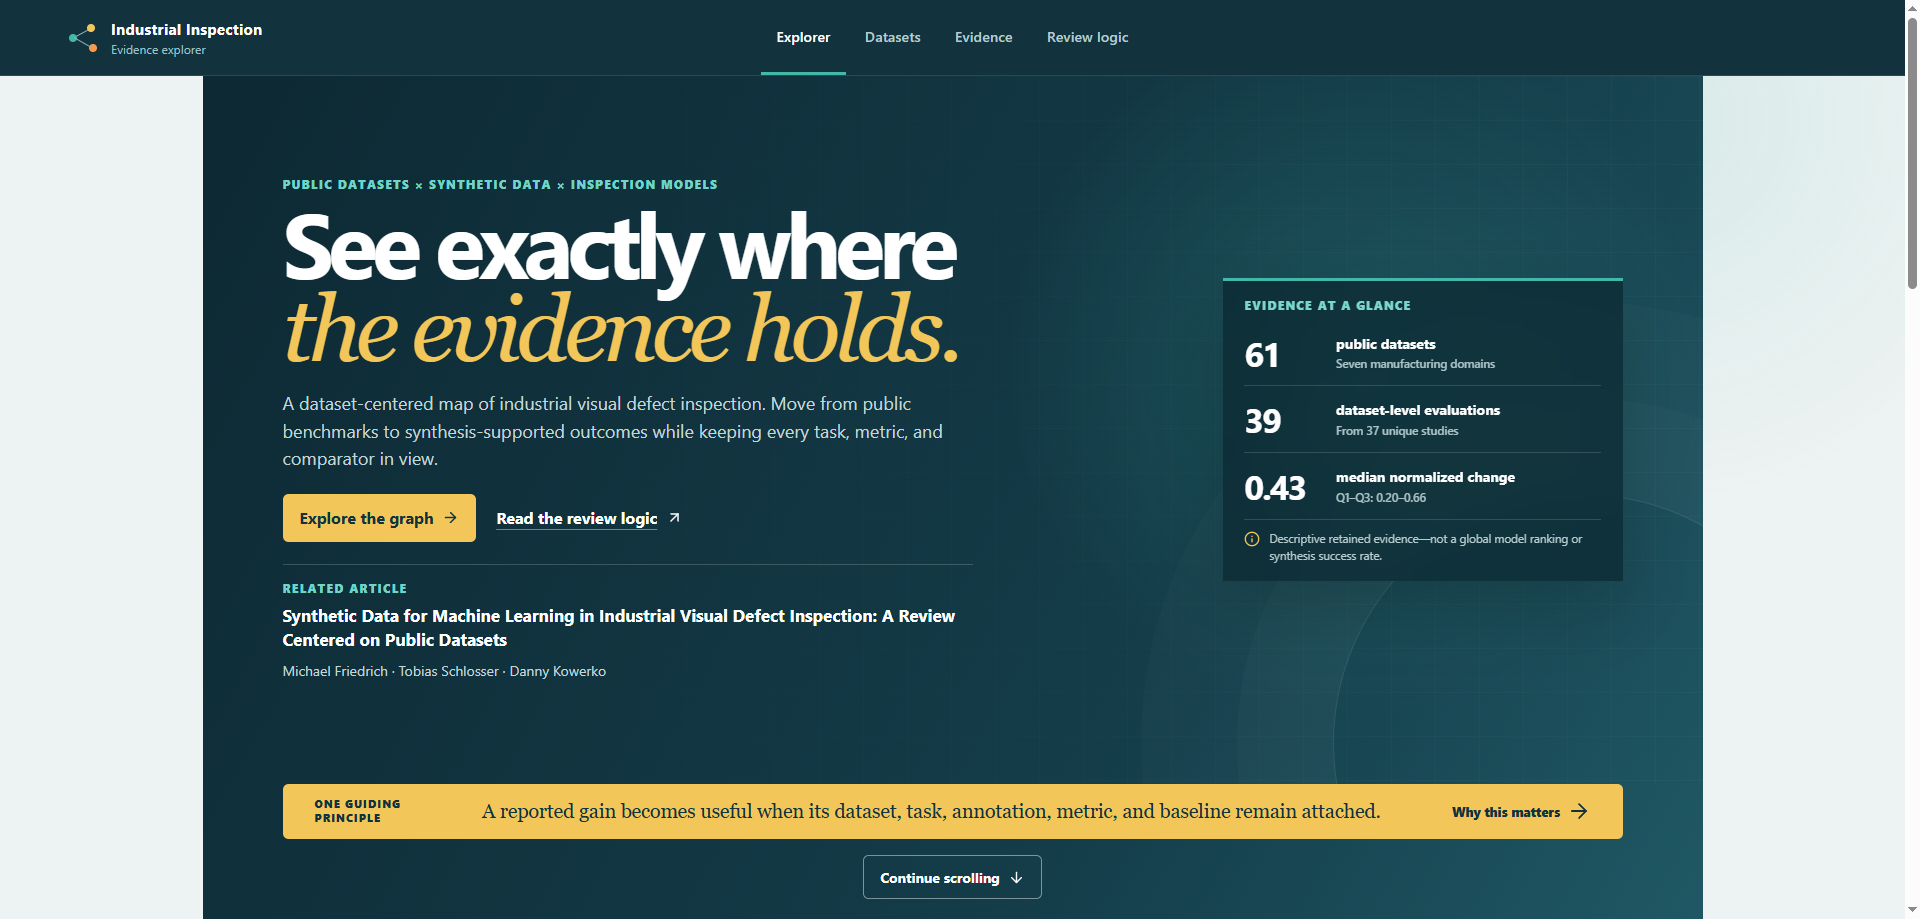
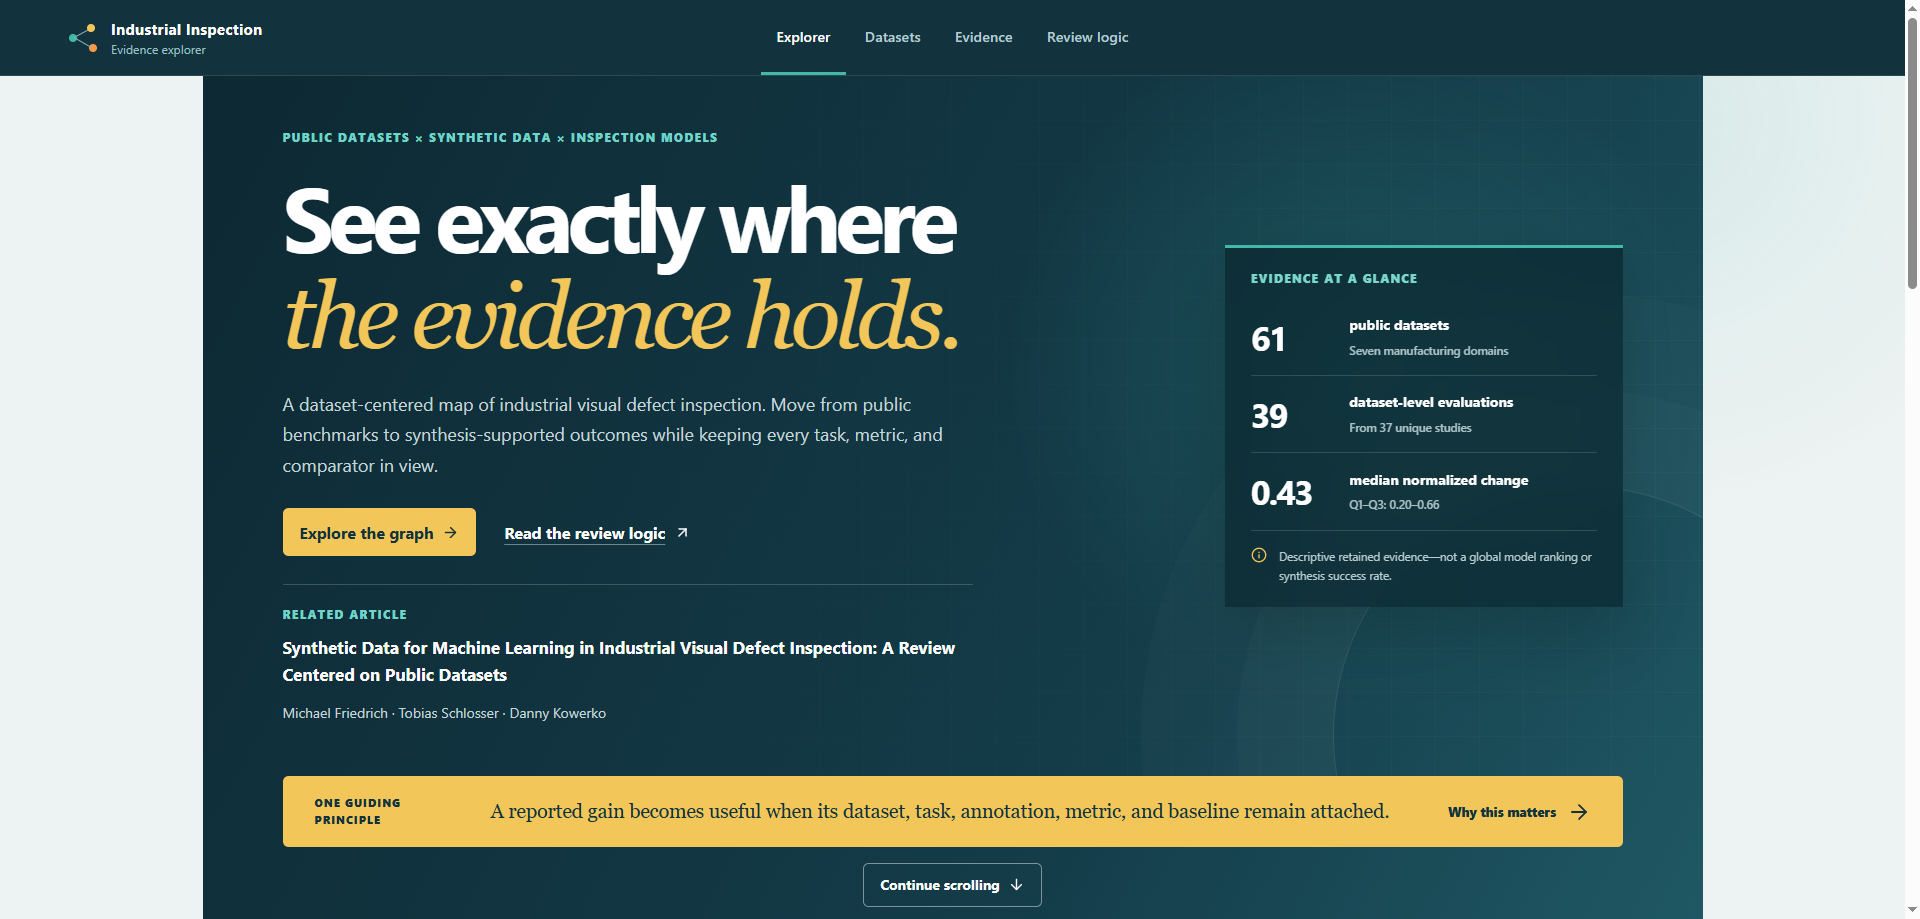
updated front page spacing

diff --git a/website/src/styles.css b/website/src/styles.css
@@ -782,7 +782,7 @@ select {
   position: relative;
   display: grid;
   grid-template-columns: minmax(0, 1.55fr) minmax(320px, 0.72fr);
-  gap: clamp(2rem, 5vw, 5rem);
+  gap: clamp(2.5rem, 5.5vw, 5.5rem);
   align-items: center;
   align-content: center;
   padding: clamp(2rem, 3.5vw, 3.25rem) clamp(1rem, 5vw, 5rem);
@@ -820,11 +820,14 @@ select {
 
 .hero-copy,
 .hero-aside {
+  min-width: 0;
   position: relative;
   z-index: 1;
 }
 
 .hero-copy .eyebrow {
+  margin-bottom: 1.25rem;
+  line-height: 1.7;
   color: #70d5c8;
 }
 
@@ -832,7 +835,8 @@ select {
   max-width: 920px;
   color: white;
   font-size: clamp(3rem, 5.2vw, 5.75rem);
-  line-height: 0.9;
+  line-height: 1.04;
+  overflow-wrap: anywhere;
   letter-spacing: -0.065em;
 }
 
@@ -845,7 +849,8 @@ select {
 
 .hero-copy .lede {
   max-width: 690px;
-  margin-top: 1.1rem;
+  margin-top: 1.5rem;
+  line-height: 1.7;
   color: #c3d6d8;
   font-size: clamp(0.98rem, 1.25vw, 1.12rem);
 }
@@ -854,8 +859,8 @@ select {
   display: flex;
   flex-wrap: wrap;
   align-items: center;
-  gap: 1.25rem;
-  margin-top: 1.35rem;
+  gap: 1rem 1.75rem;
+  margin-top: 1.75rem;
 }
 
 .primary-action,
@@ -895,7 +900,7 @@ select {
 }
 
 .hero-aside {
-  padding: 1.05rem 1.35rem;
+  padding: 1.4rem 1.6rem;
   border-top: 3px solid var(--teal);
   background: rgba(9, 35, 44, 0.68);
   box-shadow: 0 28px 70px rgba(0, 0, 0, 0.2);
@@ -904,12 +909,13 @@ select {
 
 .hero-publication {
   max-width: 690px;
-  margin-top: 1.35rem;
-  padding-top: 1rem;
+  margin-top: 1.75rem;
+  padding-top: 1.35rem;
   border-top: 1px solid rgba(255, 255, 255, 0.18);
 }
 
 .hero-publication .kicker {
+  margin-bottom: 0.75rem;
   color: #70d5c8;
 }
 
@@ -918,13 +924,13 @@ select {
   color: white;
   font-size: 1.0625rem;
   font-weight: 650;
-  line-height: 1.45;
+  line-height: 1.6;
   letter-spacing: 0;
   text-wrap: pretty;
 }
 
 .hero-publication .article-authors {
-  margin: 0.5rem 0 0;
+  margin: 0.85rem 0 0;
   color: #c3d6d8;
   font-size: 0.875rem;
   line-height: 1.6;
@@ -932,15 +938,15 @@ select {
 
 .hero-aside .kicker {
   color: #79d7cc;
-  margin-bottom: 0.4rem;
+  margin-bottom: 0.8rem;
 }
 
 .hero-metric {
   display: grid;
-  grid-template-columns: 78px 1fr;
+  grid-template-columns: minmax(5rem, max-content) minmax(0, 1fr);
   align-items: center;
-  gap: 0.85rem;
-  padding: 0.62rem 0;
+  gap: 1.15rem;
+  padding: 0.95rem 0;
   border-bottom: 1px solid rgba(255, 255, 255, 0.14);
 }
 
@@ -951,14 +957,18 @@ select {
 }
 
 .hero-metric > span {
+  min-width: 0;
   display: grid;
-  gap: 0.23rem;
+  gap: 0.4rem;
+  line-height: 1.5;
+  overflow-wrap: anywhere;
   color: white;
   font-size: 0.88rem;
   font-weight: 750;
 }
 
 .hero-metric small {
+  line-height: 1.55;
   color: #aac2c5;
   font-size: 0.72rem;
   font-weight: 500;
@@ -966,11 +976,11 @@ select {
 
 .scope-warning {
   display: flex;
-  gap: 0.55rem;
-  margin: 0.7rem 0 0;
+  gap: 0.75rem;
+  margin: 1rem 0 0;
   color: #b8ccce;
   font-size: 0.72rem;
-  line-height: 1.45;
+  line-height: 1.65;
 }
 
 .scope-warning svg {
@@ -980,16 +990,17 @@ select {
 
 .principle-band {
   display: grid;
-  grid-template-columns: 145px minmax(0, 1fr) auto;
+  grid-template-columns: minmax(8rem, 9rem) minmax(0, 1fr) auto;
   align-items: center;
-  gap: 1.4rem;
-  padding: 0.85rem clamp(1.4rem, 5vw, 5rem);
+  gap: 1rem 2rem;
+  padding: 1.15rem clamp(1.4rem, 5vw, 5rem);
   margin-bottom: 2.4rem;
   color: var(--ink);
   background: var(--saffron);
 }
 
 .principle-band > span {
+  line-height: 1.6;
   text-transform: uppercase;
   letter-spacing: 0.12em;
   font-size: 0.66rem;
@@ -1007,14 +1018,15 @@ select {
   margin: 0;
   max-width: 930px;
   font:
-    500 clamp(1rem, 1.5vw, 1.22rem) / 1.3 Georgia,
+    500 clamp(1rem, 1.5vw, 1.22rem) / 1.5 Georgia,
     serif;
 }
 
 .principle-band a {
   display: flex;
   align-items: center;
-  gap: 0.4rem;
+  gap: 0.65rem;
+  line-height: 1.5;
   font-size: 0.8rem;
   font-weight: 800;
   text-decoration: none;
@@ -2854,6 +2866,13 @@ select {
   }
 }
 
+@media (max-width: 960px) {
+  .opening-screen .hero-section {
+    grid-template-columns: minmax(0, 1fr);
+    gap: 2.25rem;
+  }
+}
+
 @media (max-width: 760px) {
   :root {
     --site-header-height: 68px;
@@ -2881,8 +2900,8 @@ select {
   }
   .hero-section {
     grid-template-columns: 1fr;
-    gap: 1.35rem;
-    padding: 2.25rem 1.2rem 1.4rem;
+    gap: 2.25rem;
+    padding: 2.25rem 1.2rem 1.75rem;
   }
   .hero-copy h1 {
     font-size: clamp(2.75rem, 13vw, 4rem);
@@ -2892,45 +2911,45 @@ select {
   }
   .hero-aside {
     display: grid;
-    grid-template-columns: repeat(3, minmax(0, 1fr));
+    grid-template-columns: minmax(0, 1fr);
     margin-top: 0;
-    padding: 0.9rem 1rem;
+    padding: 1.2rem 1.25rem;
   }
   .hero-aside .kicker {
     grid-column: 1 / -1;
-    margin-bottom: 0.2rem;
+    margin-bottom: 0.6rem;
   }
   .hero-metric {
-    grid-template-columns: 1fr;
+    grid-template-columns: minmax(4rem, max-content) minmax(0, 1fr);
     align-content: start;
-    gap: 0.12rem;
-    padding: 0.55rem 0.45rem;
-    border-right: 1px solid rgba(255, 255, 255, 0.14);
-    border-bottom: 0;
+    gap: 1rem;
+    padding: 0.9rem 0;
+    border-right: 0;
+    border-bottom: 1px solid rgba(255, 255, 255, 0.14);
   }
   .hero-metric:last-of-type {
-    border-right: 0;
+    border-bottom: 0;
   }
   .hero-metric > strong {
     font-size: 1.75rem;
   }
   .hero-metric > span {
-    font-size: 0.72rem;
-    line-height: 1.25;
+    font-size: 0.88rem;
+    line-height: 1.5;
   }
   .hero-metric small {
-    font-size: 0.62rem;
+    font-size: 0.75rem;
   }
   .scope-warning {
     grid-column: 1 / -1;
-    margin-top: 0.3rem;
-    padding-top: 0.65rem;
+    margin-top: 0.5rem;
+    padding-top: 1rem;
     border-top: 1px solid rgba(255, 255, 255, 0.14);
   }
   .principle-band {
     grid-template-columns: 1fr;
-    gap: 0.8rem;
-    padding: 0.95rem 1.2rem;
+    gap: 1rem;
+    padding: 1.15rem 1.2rem;
     margin-bottom: 2.25rem;
   }
   .principle-band a {

diff --git a/website/src/components/GraphExplorer.tsx b/website/src/components/GraphExplorer.tsx
@@ -523,7 +523,7 @@ function CanvasController({
   }, [sigma]);
   useEffect(() => {
     const graph = sigma.getGraph();
-    graph.forEachNode((id) => graph.mergeNodeAttributes(id, positionForNode(id)));
+    graph.forEachNode((id: string) => graph.mergeNodeAttributes(id, positionForNode(id)));
     sigma.refresh();
   }, [sigma]);
   const active = hovered ?? selected;
